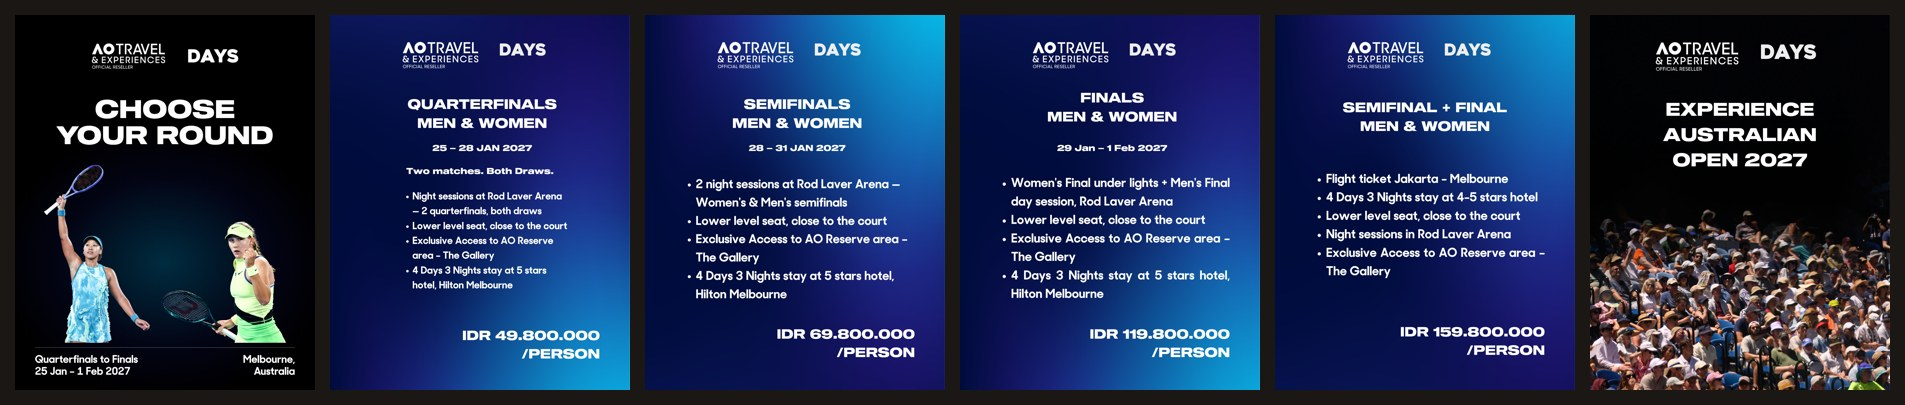
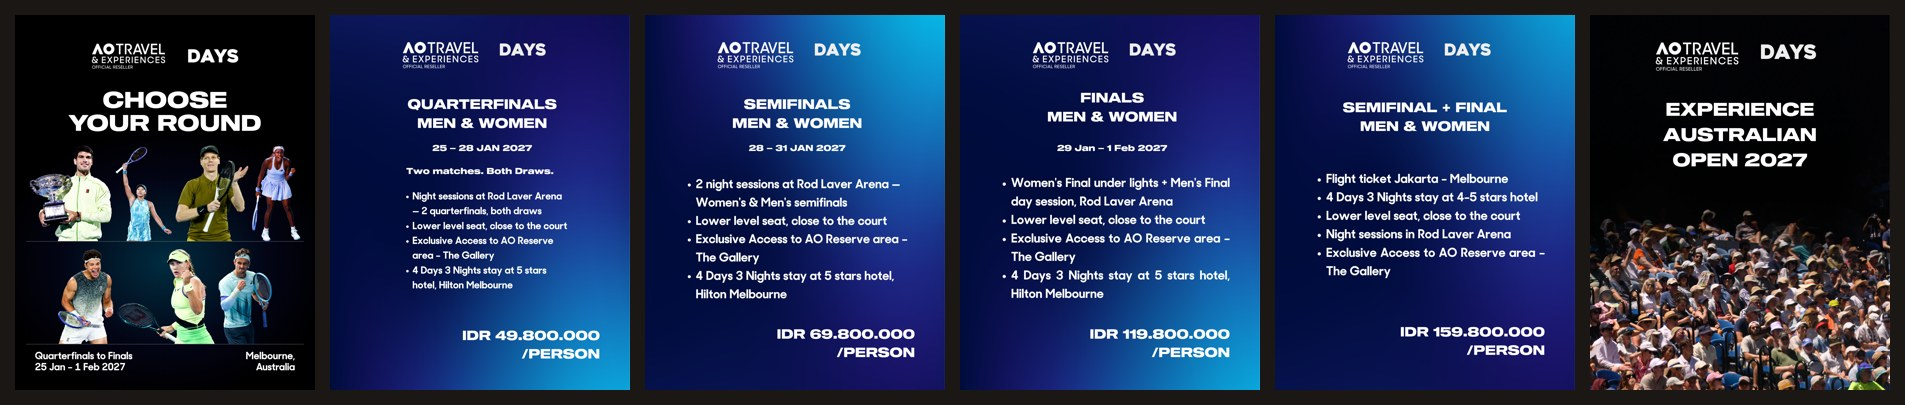
AO 2027: Post 2 cover with seven players (four men, three women)
Claude-Session: https://claude.ai/code/session_01Eb5aT3tpEevDBBbf6MCDFd

Changed region(s): [[0.0, 0.2074, 0.1549, 0.9481]]

diff --git a/social/ao-2027/slides.html b/social/ao-2027/slides.html
@@ -70,12 +70,11 @@ h2 em{font-style:normal;color:var(--blue)}
 
 /* ---------- post 2 cover ---------- */
 .c2{background:radial-gradient(70% 45% at 50% 66%,rgba(0,145,210,.30) 0,rgba(11,16,80,.25) 50%,rgba(0,0,0,0) 80%),#000}
-.c2 h1{position:absolute;left:72px;right:72px;top:290px;font-size:90px;line-height:1.04;text-align:center}
-.c2 .players{position:absolute;left:72px;right:72px;top:530px;height:650px;display:flex;justify-content:center;align-items:flex-end;gap:40px}
-.c2 .players img{display:block}
-.c2 .pa{height:650px}
-.c2 .pb{height:440px}
-.c2 .meta{position:absolute;left:72px;right:72px;top:1196px;display:flex;justify-content:space-between;align-items:flex-start;font-size:38px;line-height:1.12;padding-top:24px;border-top:2px solid rgba(255,255,255,.25)}
+.c2 h1{position:absolute;left:72px;right:72px;top:262px;font-size:80px;line-height:1.04;text-align:center}
+.c2 .players{position:absolute;left:40px;right:40px;top:470px;height:716px;display:flex;flex-direction:column;justify-content:space-between}
+.c2 .row{height:346px;display:flex;justify-content:center;align-items:flex-end;gap:14px;border-bottom:2px solid rgba(255,255,255,.25)}
+.c2 .row img{display:block;height:100%;width:auto}
+.c2 .meta{position:absolute;left:72px;right:72px;top:1210px;display:flex;justify-content:space-between;align-items:flex-start;font-size:36px;line-height:1.12}
 .c2 .meta .r{text-align:right}
 </style>
 </head>
@@ -85,7 +84,10 @@ h2 em{font-style:normal;color:var(--blue)}
 <section class="slide c2" data-id="c2">
   <div class="lockup"><img class="ao" src="brand/AOTE-official-reseller-white.png" alt="AO Travel &amp; Experiences Official Reseller"><img class="days" src="img/days-wordmark.png" alt="DAYS"></div>
   <h1>Choose<br>your round</h1>
-  <div class="players"><img class="pa" src="img/player-a-trim.png" alt=""><img class="pb" src="img/player-b-trim.png" alt=""></div>
+  <div class="players">
+    <div class="row"><img src="img/player-m-alcaraz.png" alt=""><img src="img/player-a-trim.png" alt=""><img src="img/player-m-sinner.png" alt=""><img src="img/player-w-gauff.png" alt=""></div>
+    <div class="row"><img src="img/player-m-shelton.png" alt=""><img src="img/player-b-trim.png" alt=""><img src="img/player-m-4.png" alt=""></div>
+  </div>
   <div class="meta"><span>Quarterfinals to Finals<br>25 Jan – 1 Feb 2027</span><span class="r">Melbourne,<br>Australia</span></div>
 </section>
 

diff --git a/social/ao-2027/caption.md b/social/ao-2027/caption.md
@@ -71,7 +71,7 @@ DM kami atau WhatsApp +62 812-2000-0185.
 
 | # | Slide | Source |
 |---|---|---|
-| 01 | Cover: *CHOOSE YOUR ROUND*, two player cut-outs, nothing overlapping | DAYS, built from official AO imagery |
+| 01 | Cover: *CHOOSE YOUR ROUND*, seven player cut-outs (four men, three women) in two rows, nothing overlapping | DAYS, built from official AO imagery |
 | 02 | Quarterfinals · Men & Women · 25–28 Jan 2027 | AO-approved |
 | 03 | Semifinals · Men & Women · 28–31 Jan 2027 | AO-approved |
 | 04 | Finals · Men & Women · 29 Jan – 1 Feb 2027 | AO-approved |
